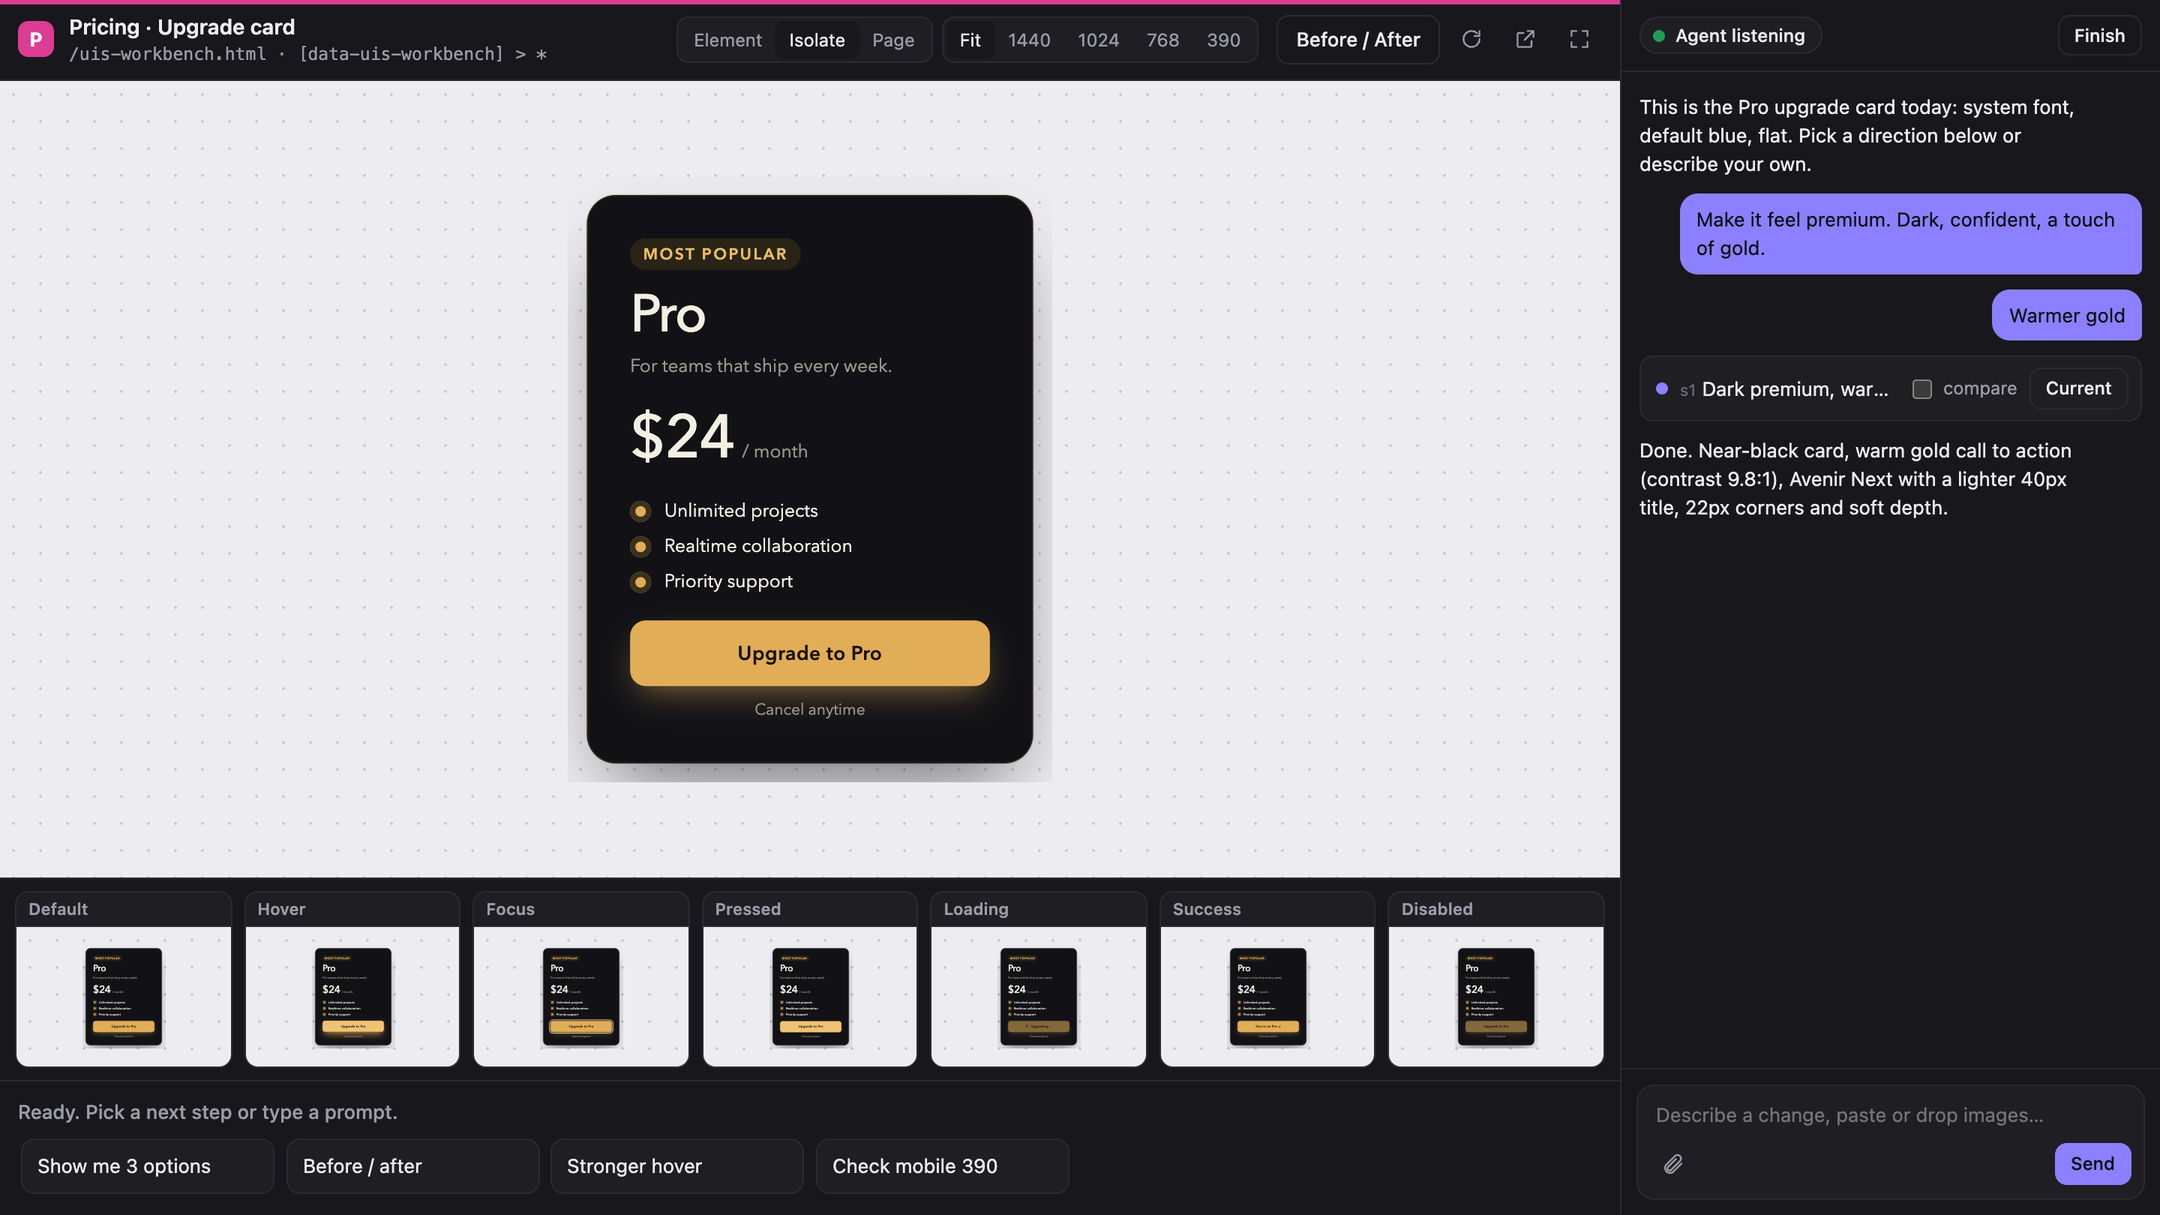
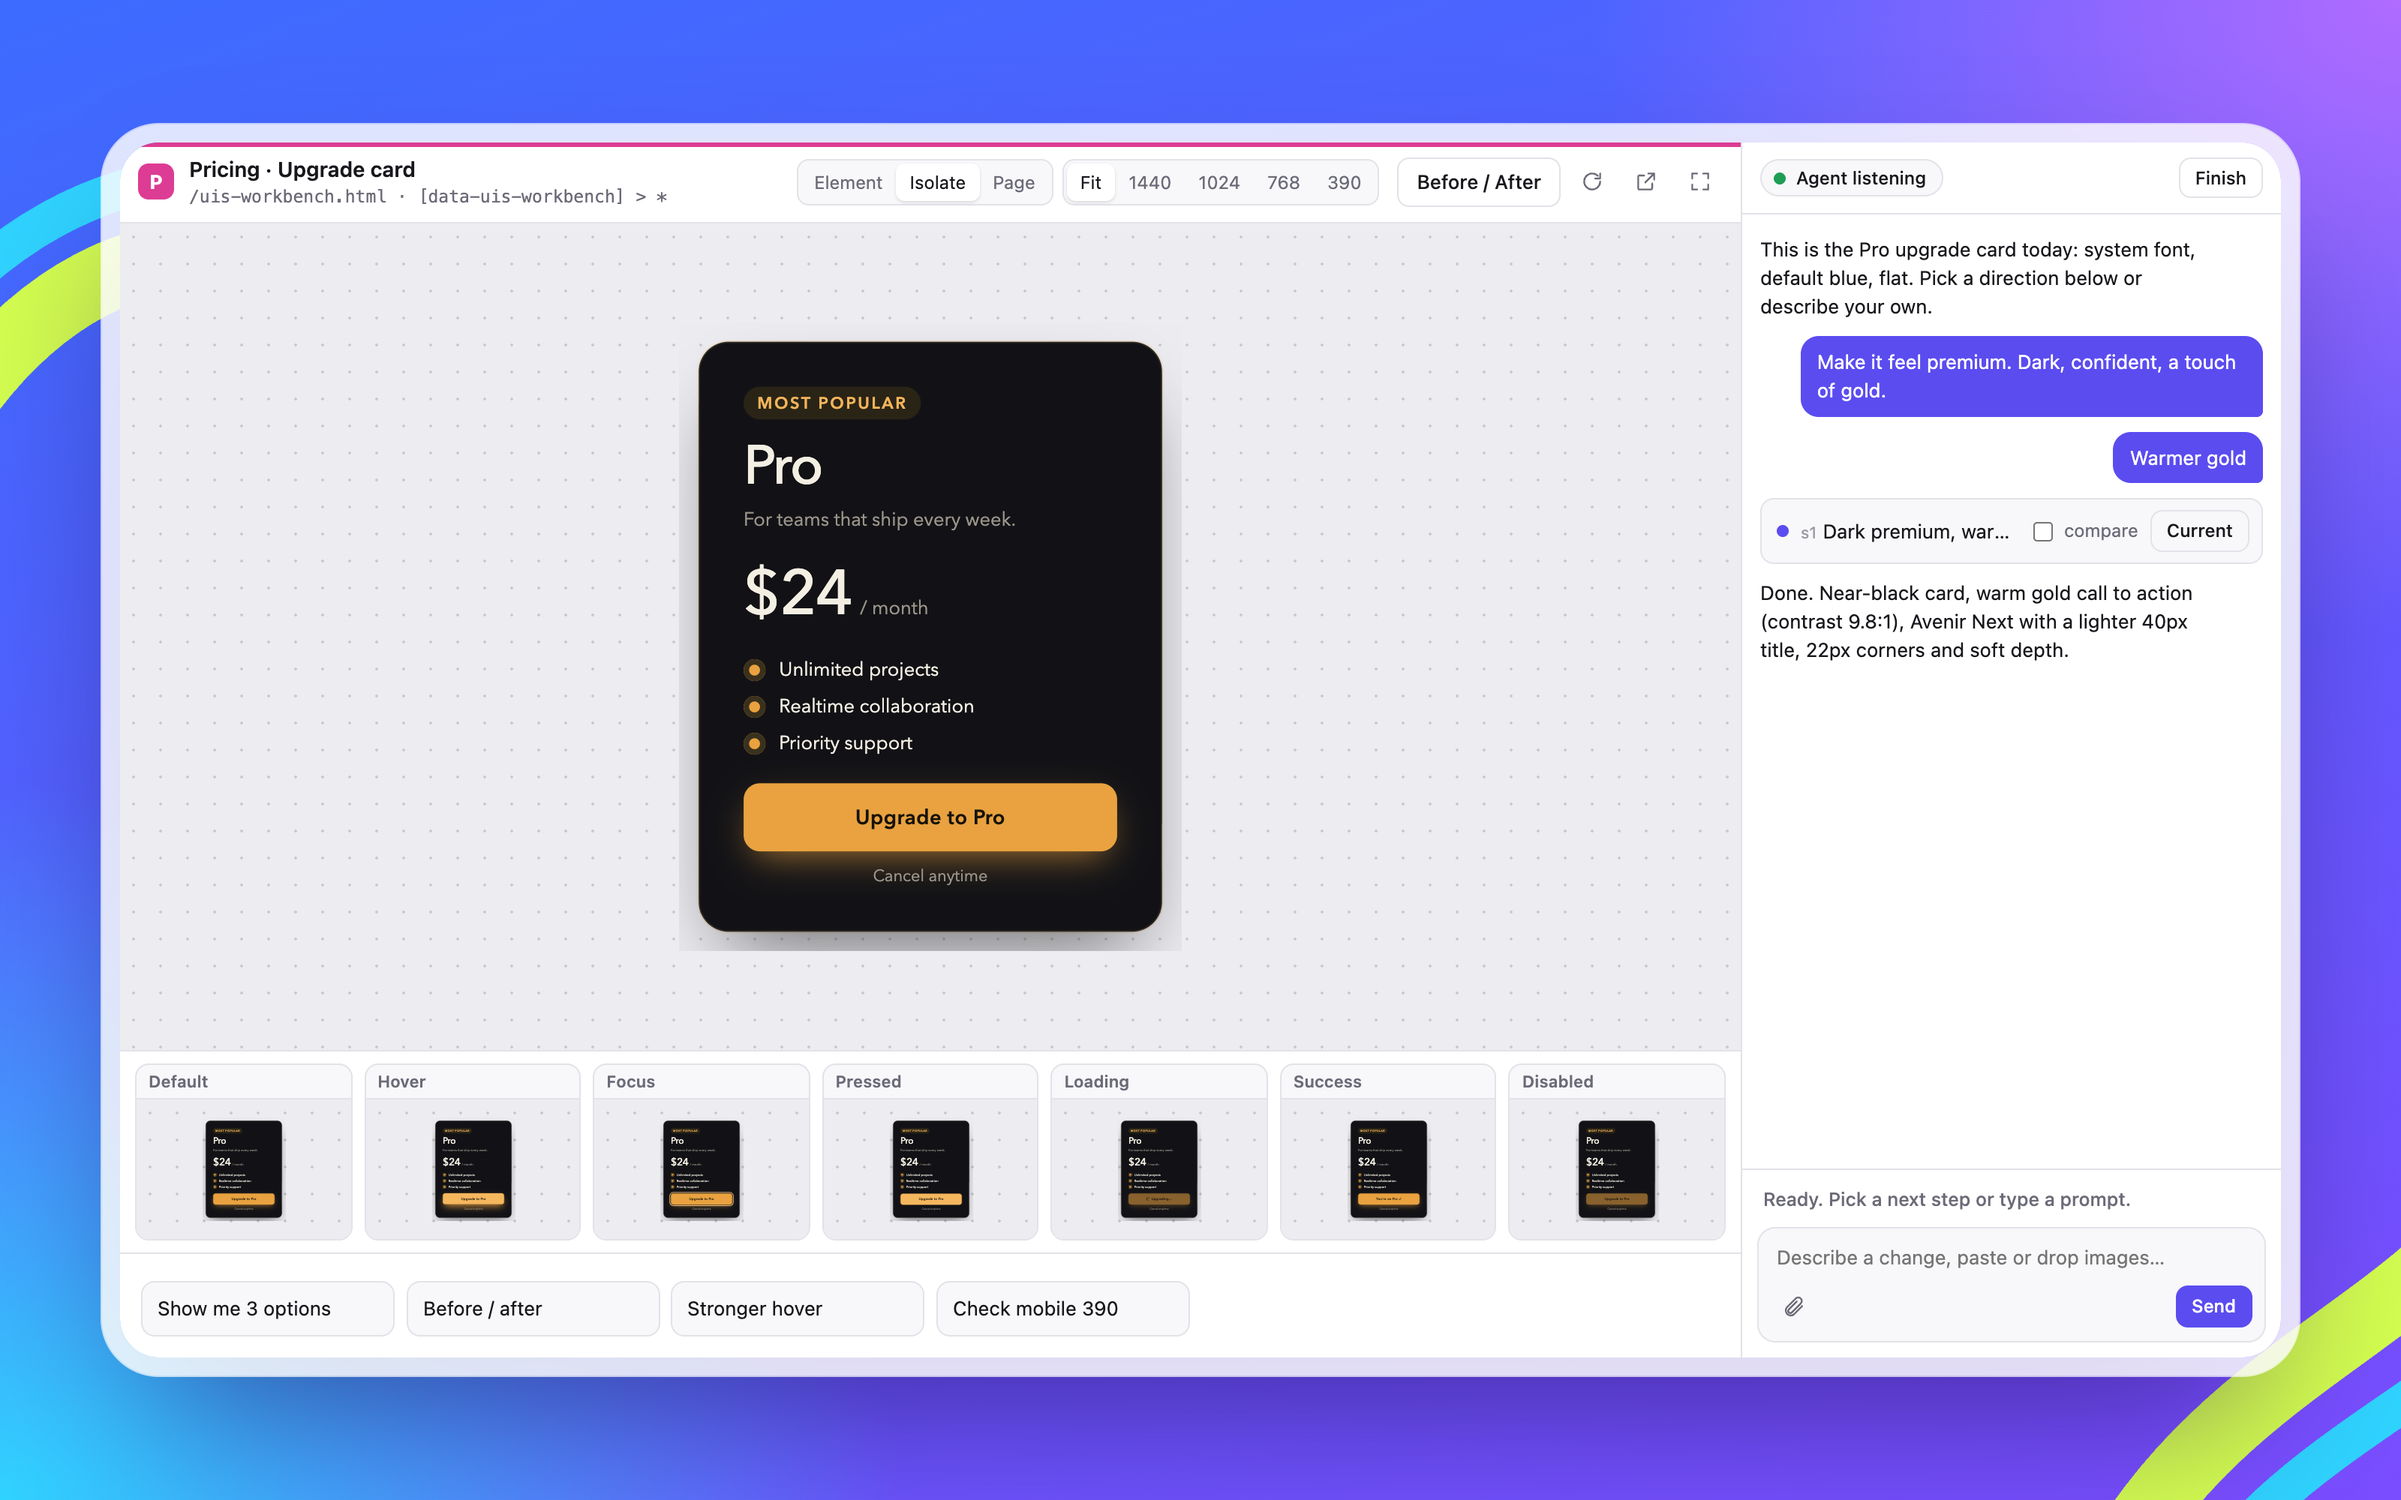
Restructure README, light hero screenshot

diff --git a/README.md b/README.md
@@ -1,16 +1,23 @@
-# UI Studio
+<h1 align="center">UI Studio</h1>
 
-A [Claude Code](https://claude.com/claude-code) skill for designing UI live. Point it at a button, a card, a section or a whole page, and it opens a design studio in its own window: your real component running in isolation, every UX state next to it, a chat to steer the redesign, and suggestion cards that follow what Claude is working on. Claude edits the actual code in the background while you watch the preview change.
+<h3 align="center">Your agent redesigns. You steer it, live.</h3>
 
-![UI Studio redesigning a pricing card](docs/studio.png)
+<p align="center">
+  <img alt="Claude Code skill" src="https://img.shields.io/badge/Claude_Code-skill-7a4dff?style=flat-square">
+  <a href="LICENSE"><img alt="License: GPL-3.0" src="https://img.shields.io/badge/license-GPL--3.0-24292f?style=flat-square"></a>
+  <a href="https://github.com/mikolajpochec/agent-ui-studio/stargazers"><img alt="GitHub stars" src="https://img.shields.io/github/stars/mikolajpochec/agent-ui-studio?style=flat-square&color=d4ff4f"></a>
+</p>
 
-## What you get
+<p align="center">
+  <a href="#install"><strong>Install</strong></a> &nbsp;·&nbsp;
+  <a href="#use"><strong>Use</strong></a> &nbsp;·&nbsp;
+  <a href="#what-it-can-preview"><strong>What it can preview</strong></a> &nbsp;·&nbsp;
+  <a href="#common-questions"><strong>FAQ</strong></a>
+</p>
 
-- **Your real component, live.** Running in isolation on your dev server, not a mockup.
-- **Every UX state** as live tiles next to it.
-- **Steer while it works:** chat, live status and suggestion cards.
-- **Live variants** side by side, plus a before/after slider.
-- **Checkpoints and fullscreen.**
+<p align="center"><img src="docs/studio.png" alt="UI Studio redesigning a pricing card: the live card, its UX states, suggestion cards and the chat with Claude" width="960"></p>
+
+Point Claude Code at a button, a card, a section or a whole page, and it opens a design studio in its own window: your real component running in isolation, every UX state next to it, and a chat to steer the redesign while Claude edits the actual code.
 
 ## Install
 
@@ -20,8 +27,6 @@ Tell Claude Code:
 
 It sets everything up (asking before it installs [Bun](https://bun.sh), if you don't have it) and tells you when it's ready. Later, ask it to update the skill the same way.
 
-The studio opens in a Chromium-based browser window (Chrome, Brave, Edge, Chromium or Vivaldi) and runs on macOS and Linux.
-
 ## Use
 
 Start it with the slash command and say what to work on:
@@ -30,9 +35,23 @@ Start it with the slash command and say what to work on:
 /ui-studio the Pro pricing card
 ```
 
-or just ask in plain words, for example "let's redesign the settings save button in the studio". Claude finds the component, decides how to preview it, opens the studio window and starts listening. From then on you talk to it in the studio. Click **Finish** (or close the window) when you're done: the studio closes, Claude removes everything studio-specific, and your main session gets a summary of what changed.
+or just ask in plain words, for example "let's redesign the settings save button in the studio". The studio window opens, and from then on you talk to Claude there:
 
-What it can preview:
+- "Make it feel premium. Dark, confident, a touch of gold."
+- "Warmer gold", sent while Claude is still working, or one click on a suggestion card
+- "Show me 3 options", then **Use this** on the one you like
+
+Click **Finish** (or close the window) when you're done. Claude removes everything studio-specific, and your main session gets a summary of what changed.
+
+## What you get
+
+- **Your real component, live.** Running in isolation on your dev server, not a mockup.
+- **Every UX state** as live tiles next to it.
+- **Steer while it works:** chat, live status and suggestion cards.
+- **Live variants** side by side, plus a before/after slider.
+- **Checkpoints and fullscreen.**
+
+## What it can preview
 
 | Project | Preview |
 |---|---|
@@ -41,3 +60,24 @@ What it can preview:
 | Plain HTML and CSS | Live, served from disk with reload on save |
 | React Native with web support | Live, the web rendering |
 | Native iOS, Android, Flutter | Device screenshots after each change (the only non-live mode) |
+
+## Common questions
+
+**Does it change my code?**
+Yes, that's the point: Claude edits your real files while you watch. On Finish it deletes its workbench and any targeting attributes it added, so only the design changes stay.
+
+**Can I go back?**
+Every finished step is a checkpoint. Restore any of them from the chat, or compare it with the current version.
+
+**What does it need?**
+Claude Code, a Chromium-based browser (Chrome, Brave, Edge, Chromium or Vivaldi) and macOS or Linux. If [Bun](https://bun.sh) is missing, Claude offers to install it.
+
+**Does anything leave my machine?**
+No. The studio is a local server bound to 127.0.0.1, and its window is a local browser window.
+
+**What if I close the window by accident?**
+Closing it counts as Finish. Ask Claude to open the studio again with the same title and it picks up the session with its full history.
+
+## License
+
+[GPL-3.0](LICENSE)
